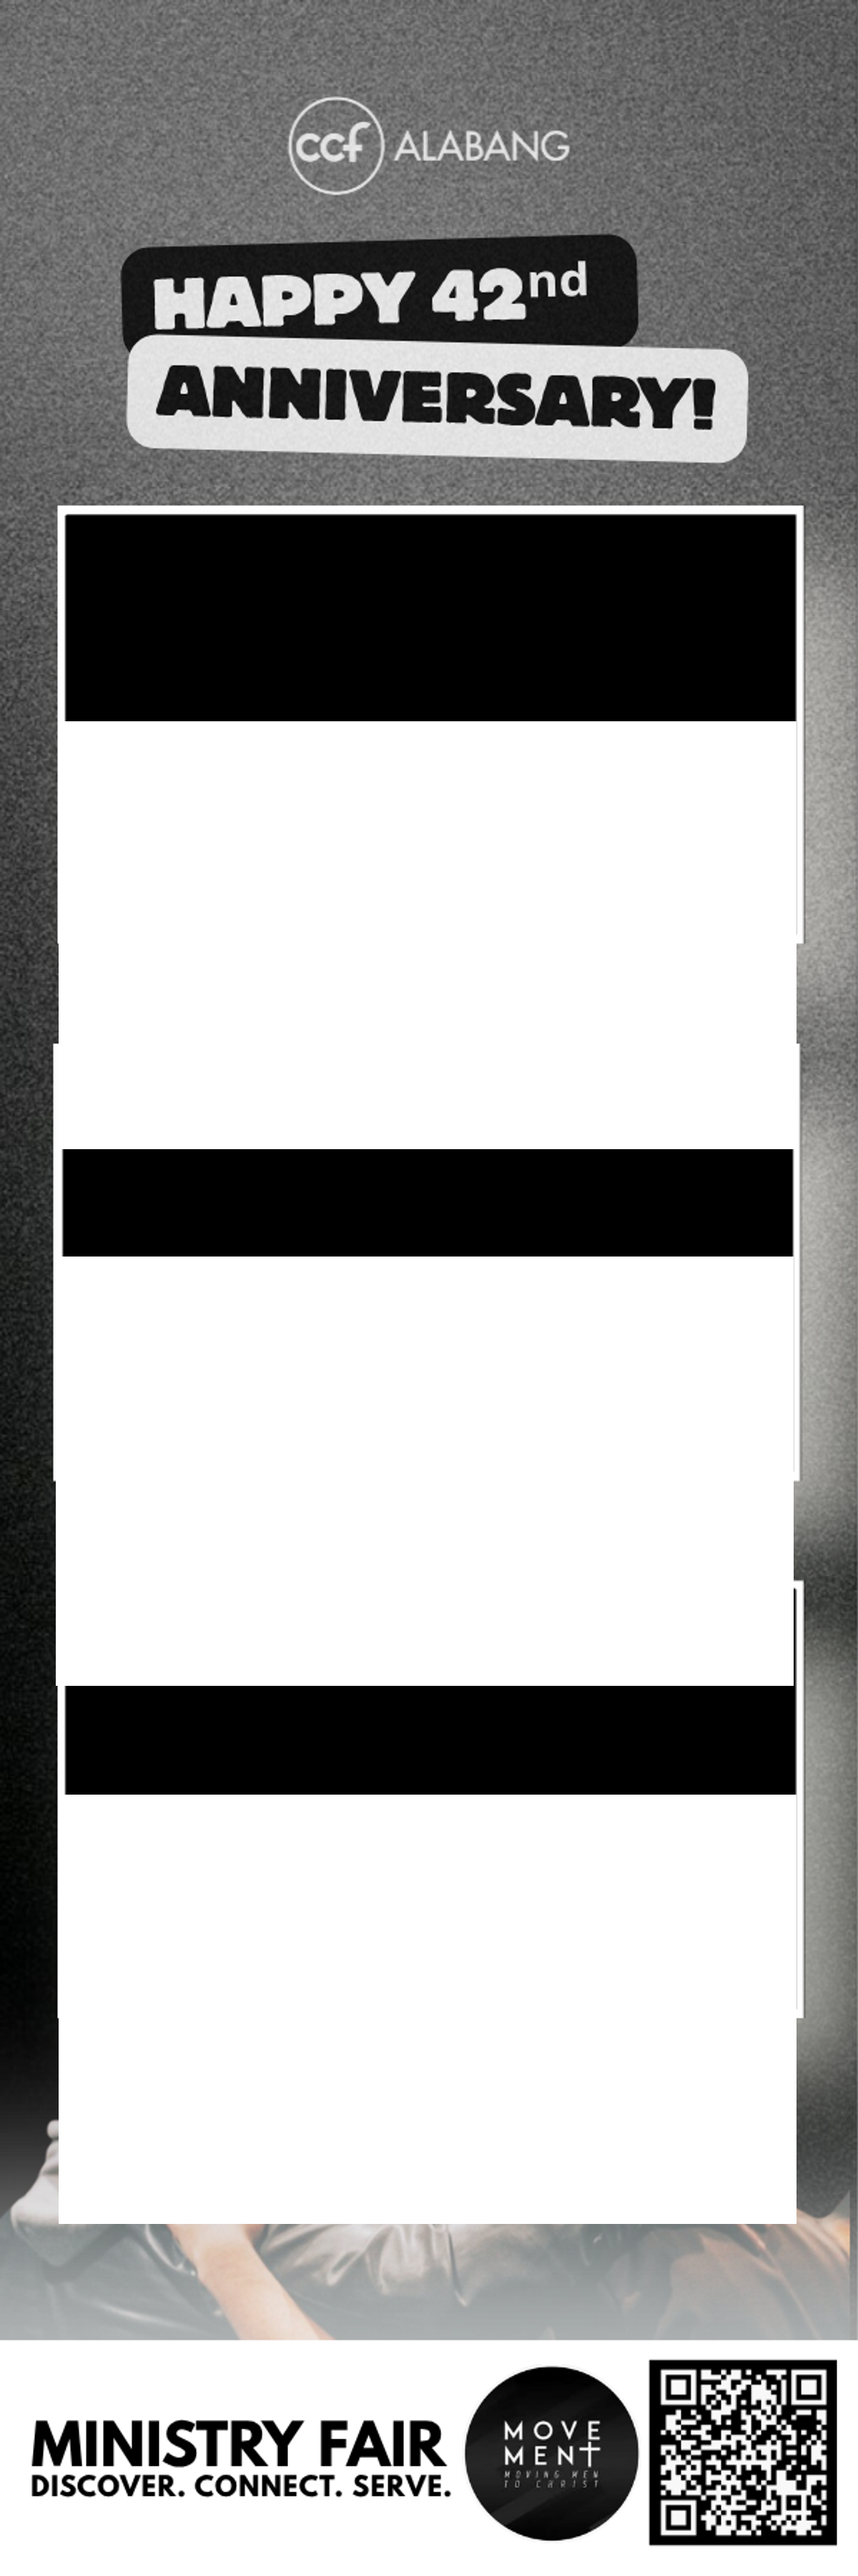
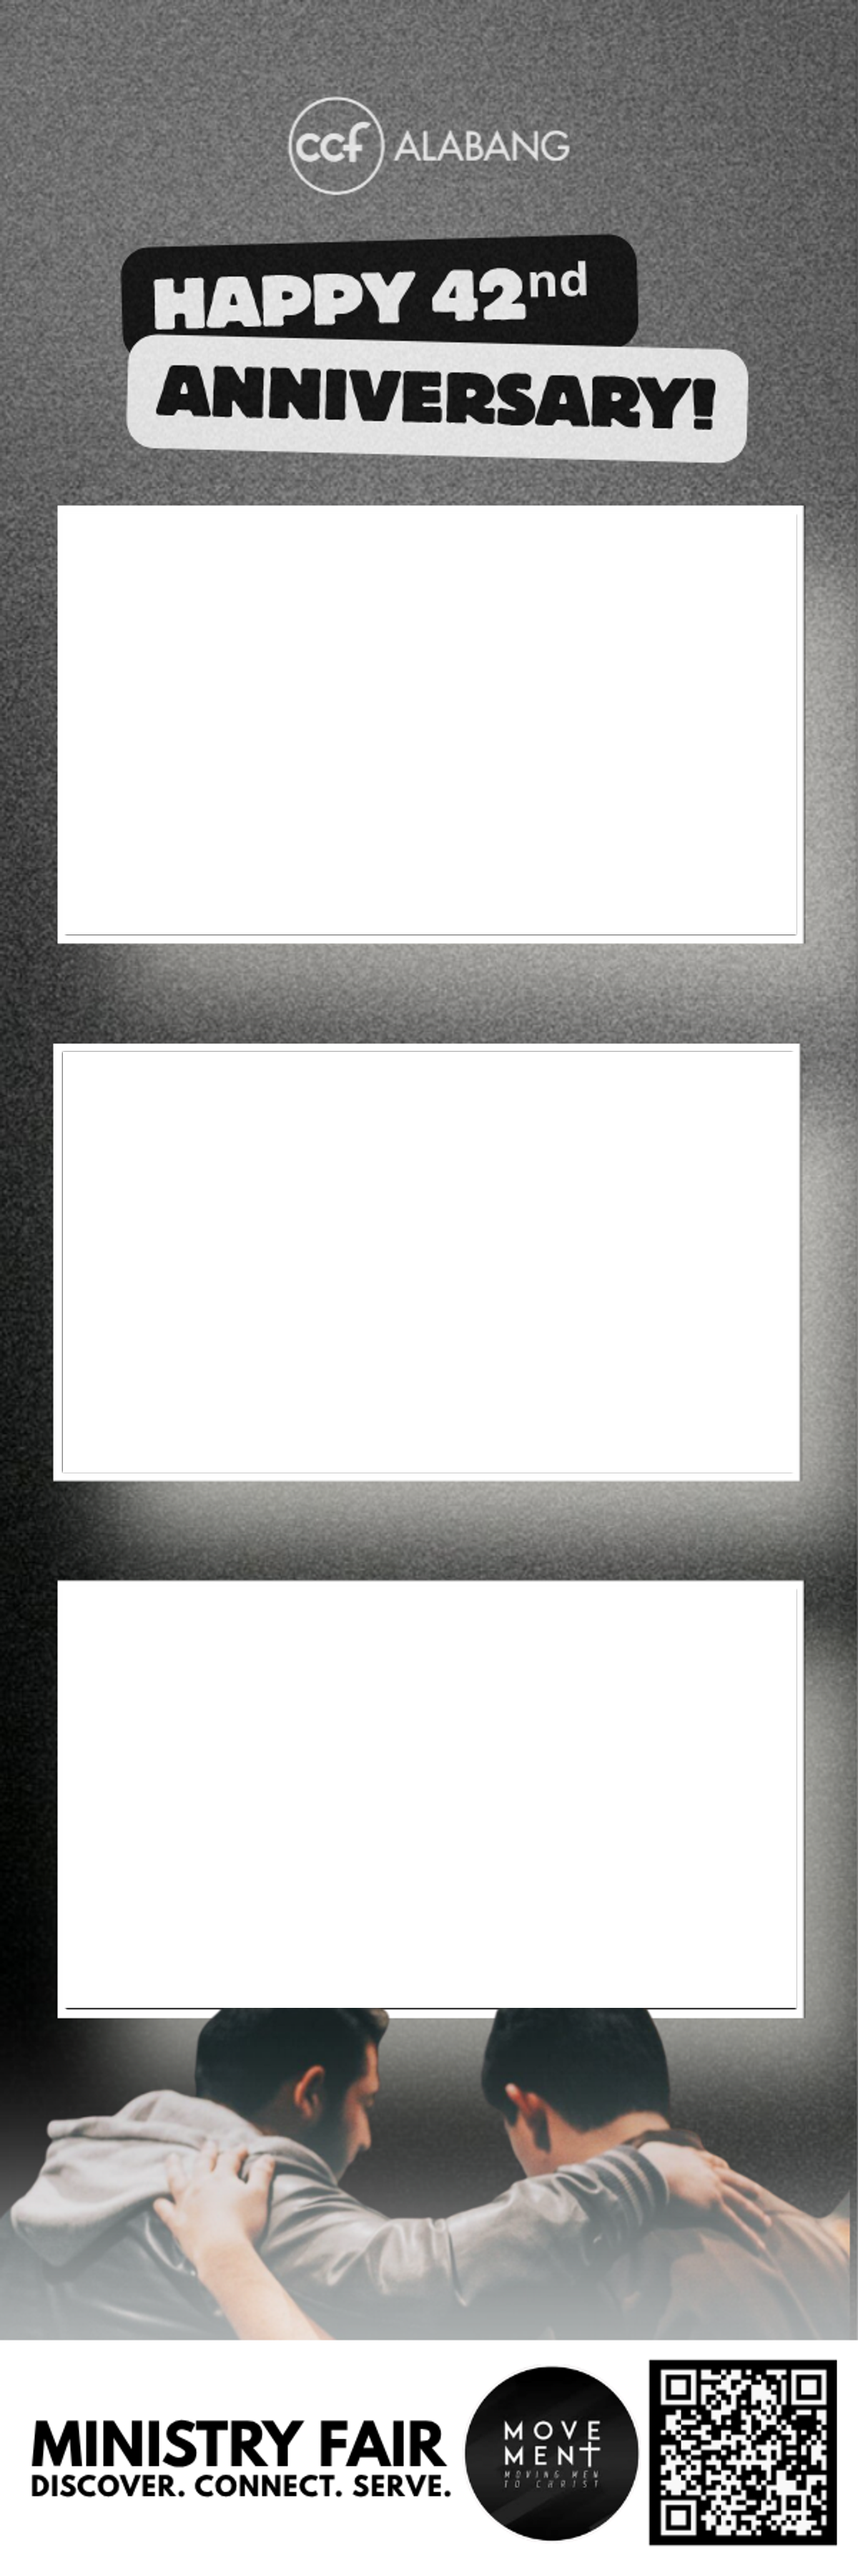
fix(kiosk): calibrate exact photo slot bounding boxes for all 11 ministry frame templates

diff --git a/apps/kiosk/src/main/frame/frame-service.ts b/apps/kiosk/src/main/frame/frame-service.ts
@@ -79,17 +79,78 @@ export const ANNIVERSARY_FRAME_SLOTS: FrameLayout = FrameLayoutSchema.parse([
   },
 ]);
 
+export const createMinistrySlots = (
+  s1Y: number,
+  s2Y: number,
+  s3Y: number,
+  s1X: number = 0.075,
+  s2X: number = 0.073333,
+  s3X: number = 0.075,
+  width: number = 0.853333,
+  height: number = 0.163333,
+): FrameLayout =>
+  FrameLayoutSchema.parse([
+    { slotIndex: 1, name: 'Photo 1', x: s1X, y: s1Y, width, height, cropMode: 'crop-to-fill' },
+    { slotIndex: 2, name: 'Photo 2', x: s2X, y: s2Y, width, height, cropMode: 'crop-to-fill' },
+    { slotIndex: 3, name: 'Photo 3', x: s3X, y: s3Y, width, height, cropMode: 'crop-to-fill' },
+  ]);
+
 export const MINISTRY_FRAMES: Array<{ name: string; file: string; slots: FrameLayout }> = [
-  { name: 'Across Ministry', file: 'across-frame.png', slots: ANNIVERSARY_FRAME_SLOTS },
-  { name: 'B1G Singles Ministry', file: 'b1g-frame.png', slots: ANNIVERSARY_FRAME_SLOTS },
-  { name: 'Elevate Youth', file: 'elevate-frame.png', slots: ANNIVERSARY_FRAME_SLOTS },
-  { name: 'Exalt Worship Ministry', file: 'exalt-frame.png', slots: ANNIVERSARY_FRAME_SLOTS },
-  { name: 'Host Team', file: 'host-team-frame.png', slots: ANNIVERSARY_FRAME_SLOTS },
-  { name: 'Living Free Ministry', file: 'living-free-frame.png', slots: ANNIVERSARY_FRAME_SLOTS },
-  { name: 'Movement Ministry', file: 'movement-frame.png', slots: ANNIVERSARY_FRAME_SLOTS },
-  { name: 'NextGen Ministry', file: 'nextgen-frame.png', slots: ANNIVERSARY_FRAME_SLOTS },
-  { name: 'Ushering Ministry', file: 'ushering-frame.png', slots: ANNIVERSARY_FRAME_SLOTS },
-  { name: 'Women 2 Women (W2W)', file: 'w2w-frame.png', slots: ANNIVERSARY_FRAME_SLOTS },
+  {
+    name: 'Across Ministry',
+    file: 'across-frame.png',
+    slots: createMinistrySlots(0.208333, 0.416667, 0.625),
+  },
+  {
+    name: 'B1G Singles Ministry',
+    file: 'b1g-frame.png',
+    slots: createMinistrySlots(0.226111, 0.434444, 0.642778, 0.068333, 0.065, 0.068333, 0.851667),
+  },
+  {
+    name: 'Elevate Youth',
+    file: 'elevate-frame.png',
+    slots: createMinistrySlots(0.228889, 0.437222, 0.645556),
+  },
+  {
+    name: 'Exalt Worship Ministry',
+    file: 'exalt-frame.png',
+    slots: createMinistrySlots(0.216111, 0.425, 0.633333),
+  },
+  {
+    name: 'Host Team',
+    file: 'host-team-frame.png',
+    slots: createMinistrySlots(0.228889, 0.437222, 0.645556),
+  },
+  {
+    name: 'Living Free Ministry',
+    file: 'living-free-frame.png',
+    slots: createMinistrySlots(0.21, 0.418333, 0.626667),
+  },
+  {
+    name: 'M.A.T. Ministry',
+    file: 'mat-ministry-frame.png',
+    slots: createMinistrySlots(0.236111, 0.445, 0.653333, 0.07, 0.066667, 0.07, 0.851667),
+  },
+  {
+    name: 'Movement Ministry',
+    file: 'movement-frame.png',
+    slots: createMinistrySlots(0.199444, 0.408333, 0.616111),
+  },
+  {
+    name: 'NextGen Ministry',
+    file: 'nextgen-frame.png',
+    slots: createMinistrySlots(0.221667, 0.430556, 0.638333),
+  },
+  {
+    name: 'Ushering Ministry',
+    file: 'ushering-frame.png',
+    slots: createMinistrySlots(0.267778, 0.476111, 0.684444),
+  },
+  {
+    name: 'Women 2 Women (W2W)',
+    file: 'w2w-frame.png',
+    slots: createMinistrySlots(0.234444, 0.442778, 0.651111),
+  },
 ];
 
 export const DEFAULT_FRAME_SLOTS = MAT_FRAME_SLOTS;
@@ -188,17 +249,32 @@ export class FrameService {
 
   /**
    * Seeds all available ministry template frames into the library so guests have access to all
-   * ministry-specific photostrip layouts.
+   * ministry-specific photostrip layouts. Automatically synchronizes calibrated slot positions.
    */
   async ensureMinistryFrames(): Promise<StoredFrame[]> {
     const seeded: StoredFrame[] = [];
     const framesDir = dirname(this.packagedFramePaths.option1);
     for (const ministry of MINISTRY_FRAMES) {
       const currentLibrary = this.repository.listFrames();
-      const alreadyPresent = currentLibrary.some(
+      const existing = currentLibrary.find(
         (f) => f.name === ministry.name || f.name.toLowerCase() === ministry.name.toLowerCase(),
       );
-      if (!alreadyPresent) {
+      if (existing) {
+        // If the frame is an untouched shipped default with misaligned slots, update its layout to calibrated positions
+        if (existing.revision === 0 && JSON.stringify(existing.slots) !== JSON.stringify(ministry.slots)) {
+          try {
+            const updated = this.repository.updateFrameLayout(
+              existing.id,
+              ministry.slots,
+              existing.revision,
+              ministry.name,
+            );
+            seeded.push(updated);
+          } catch {
+            // Ignore layout update failure
+          }
+        }
+      } else {
         try {
           const filePath = join(framesDir, ministry.file);
           const bytes = await readFile(filePath);

diff --git a/apps/kiosk/src/main/index.ts b/apps/kiosk/src/main/index.ts
@@ -40,7 +40,8 @@ import { BoothWorkflow } from './workflow/booth-workflow.js';
 
 registerPrivilegedSchemes();
 
-const hasInstanceLock = app.requestSingleInstanceLock();
+const isNativeSelfTest = process.argv.includes('--native-self-test');
+const hasInstanceLock = isNativeSelfTest || app.requestSingleInstanceLock();
 if (!hasInstanceLock) app.quit();
 
 void app
